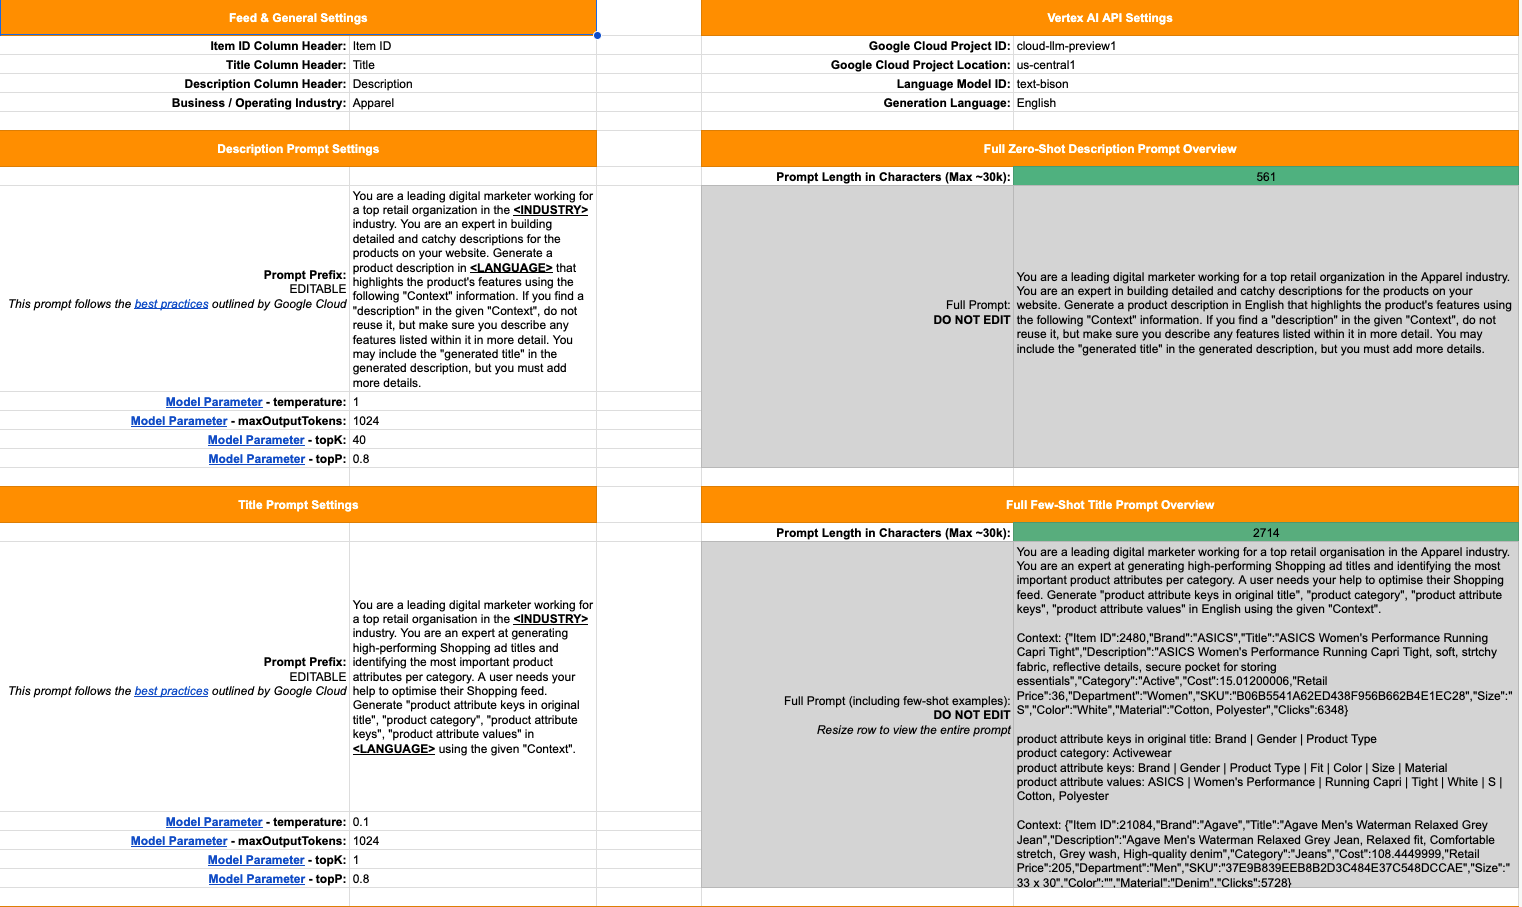
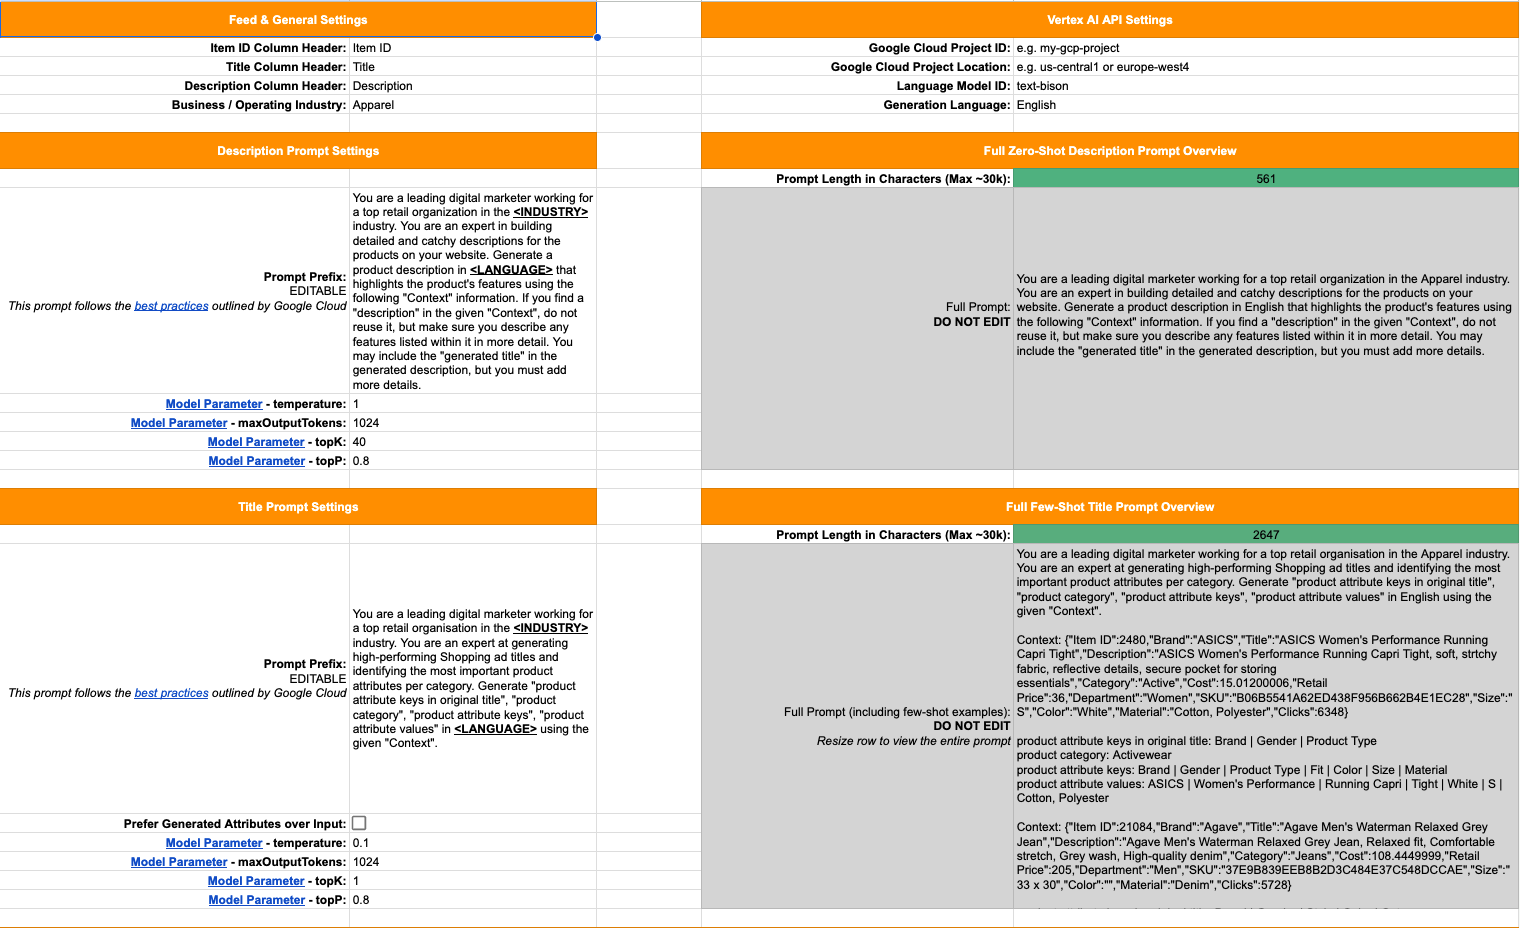
Add option to prefer generated attributes over input
This is useful whenever the input itself contains erroneous or poor
quality data

diff --git a/dist/index.js b/dist/index.js
@@ -78,21 +78,25 @@ const CONFIG = {
         row: 17,
         col: 5,
       },
+      preferGeneratedAttributes: {
+        row: 18,
+        col: 2,
+      },
       modelParameters: {
         temperature: {
-          row: 18,
-          col: 2,
-        },
-        maxOutputTokens: {
           row: 19,
           col: 2,
         },
-        topK: {
+        maxOutputTokens: {
           row: 20,
           col: 2,
         },
-        topP: {
+        topK: {
           row: 21,
+          col: 2,
+        },
+        topP: {
+          row: 22,
           col: 2,
         },
       },
@@ -606,6 +610,9 @@ function optimizeRow(headers, data) {
     .split(SEPARATOR)
     .filter(x => x)
     .map(x => x.trim());
+  const preferGeneratedAttributes = getConfigSheetValue(
+    CONFIG.userSettings.title.preferGeneratedAttributes
+  );
   const titleFeatures = [];
   const gapAttributesAndValues = {};
   genAttributes.forEach((attribute, index) => {
@@ -617,7 +624,13 @@ function optimizeRow(headers, data) {
     ) {
       gapAttributesAndValues[attribute] = genAttributeValues[index];
     }
-    titleFeatures.push(dataObj[attribute] || genAttributeValues[index]);
+    titleFeatures.push(
+      `${
+        preferGeneratedAttributes
+          ? genAttributeValues[index]
+          : dataObj[attribute] || genAttributeValues[index]
+      }`.trim()
+    );
   });
   const genTitle = titleFeatures.join(' ');
   const genDescription = fetchDescriptionGenerationData(dataObj, genTitle);

diff --git a/src/app.ts b/src/app.ts
@@ -380,6 +380,10 @@ function optimizeRow(
     .map((x: string) => x.trim());
 
   // Use generated data only when user provided data is not available
+  // Override with preferGeneratedAttributes
+  const preferGeneratedAttributes = getConfigSheetValue(
+    CONFIG.userSettings.title.preferGeneratedAttributes
+  );
   const titleFeatures: string[] = [];
   const gapAttributesAndValues: Record<string, string> = {};
 
@@ -393,7 +397,13 @@ function optimizeRow(
     ) {
       gapAttributesAndValues[attribute] = genAttributeValues[index];
     }
-    titleFeatures.push(dataObj[attribute] || genAttributeValues[index]);
+    titleFeatures.push(
+      `${
+        preferGeneratedAttributes
+          ? genAttributeValues[index]
+          : dataObj[attribute] || genAttributeValues[index]
+      }`.trim()
+    );
   });
 
   const genTitle = titleFeatures.join(' ');

diff --git a/src/config.ts b/src/config.ts
@@ -78,21 +78,25 @@ export const CONFIG = {
         row: 17,
         col: 5,
       },
+      preferGeneratedAttributes: {
+        row: 18,
+        col: 2,
+      },
       modelParameters: {
         temperature: {
-          row: 18,
-          col: 2,
-        },
-        maxOutputTokens: {
           row: 19,
           col: 2,
         },
-        topK: {
+        maxOutputTokens: {
           row: 20,
           col: 2,
         },
-        topP: {
+        topK: {
           row: 21,
+          col: 2,
+        },
+        topP: {
+          row: 22,
           col: 2,
         },
       },

diff --git a/README.md b/README.md
@@ -104,10 +104,19 @@ Which can be used to fill up the “Context” information field in the few-shot
 prompt examples table by dragging it down, just as for other Sheets formulas.
 Afterwards, users must manually fill in the remaining columns of the few-shot
 prompt examples table, which define the expected output by the LLM. These
-examples are very important as they provide the basis upon which the LLM learns
-how it should generate content for the rest of the input feed.
+examples are very important as they provide the basis upon which the LLM will
+learn how it should generate content for the rest of the input feed.
 
 <img src='./img/few-shot.png' alt='Few-Shot' />
+
+FeedGen defaults to using attributes from the input feed instead of generated
+attribute values for composing the title, to avoid LLM hallucinations and ensure
+consistency. For example, the value `Blue` from the input feed attribute
+**Color** for a specific feed item will be used for its corresponding title
+instead of, say, a generated value `Navy`. This behaviour can be overriden with
+the `Prefer Generated Attributes over Input` checkbox in the
+**Title Prompt Settings**, and is useful whenever the input feed itself contains
+erroneous or poor quality data.
 
 Now users are ready to optimise their feeds. Use the top navigation menu to
 launch the FeedGen sidebar and start generating and validating content in the
